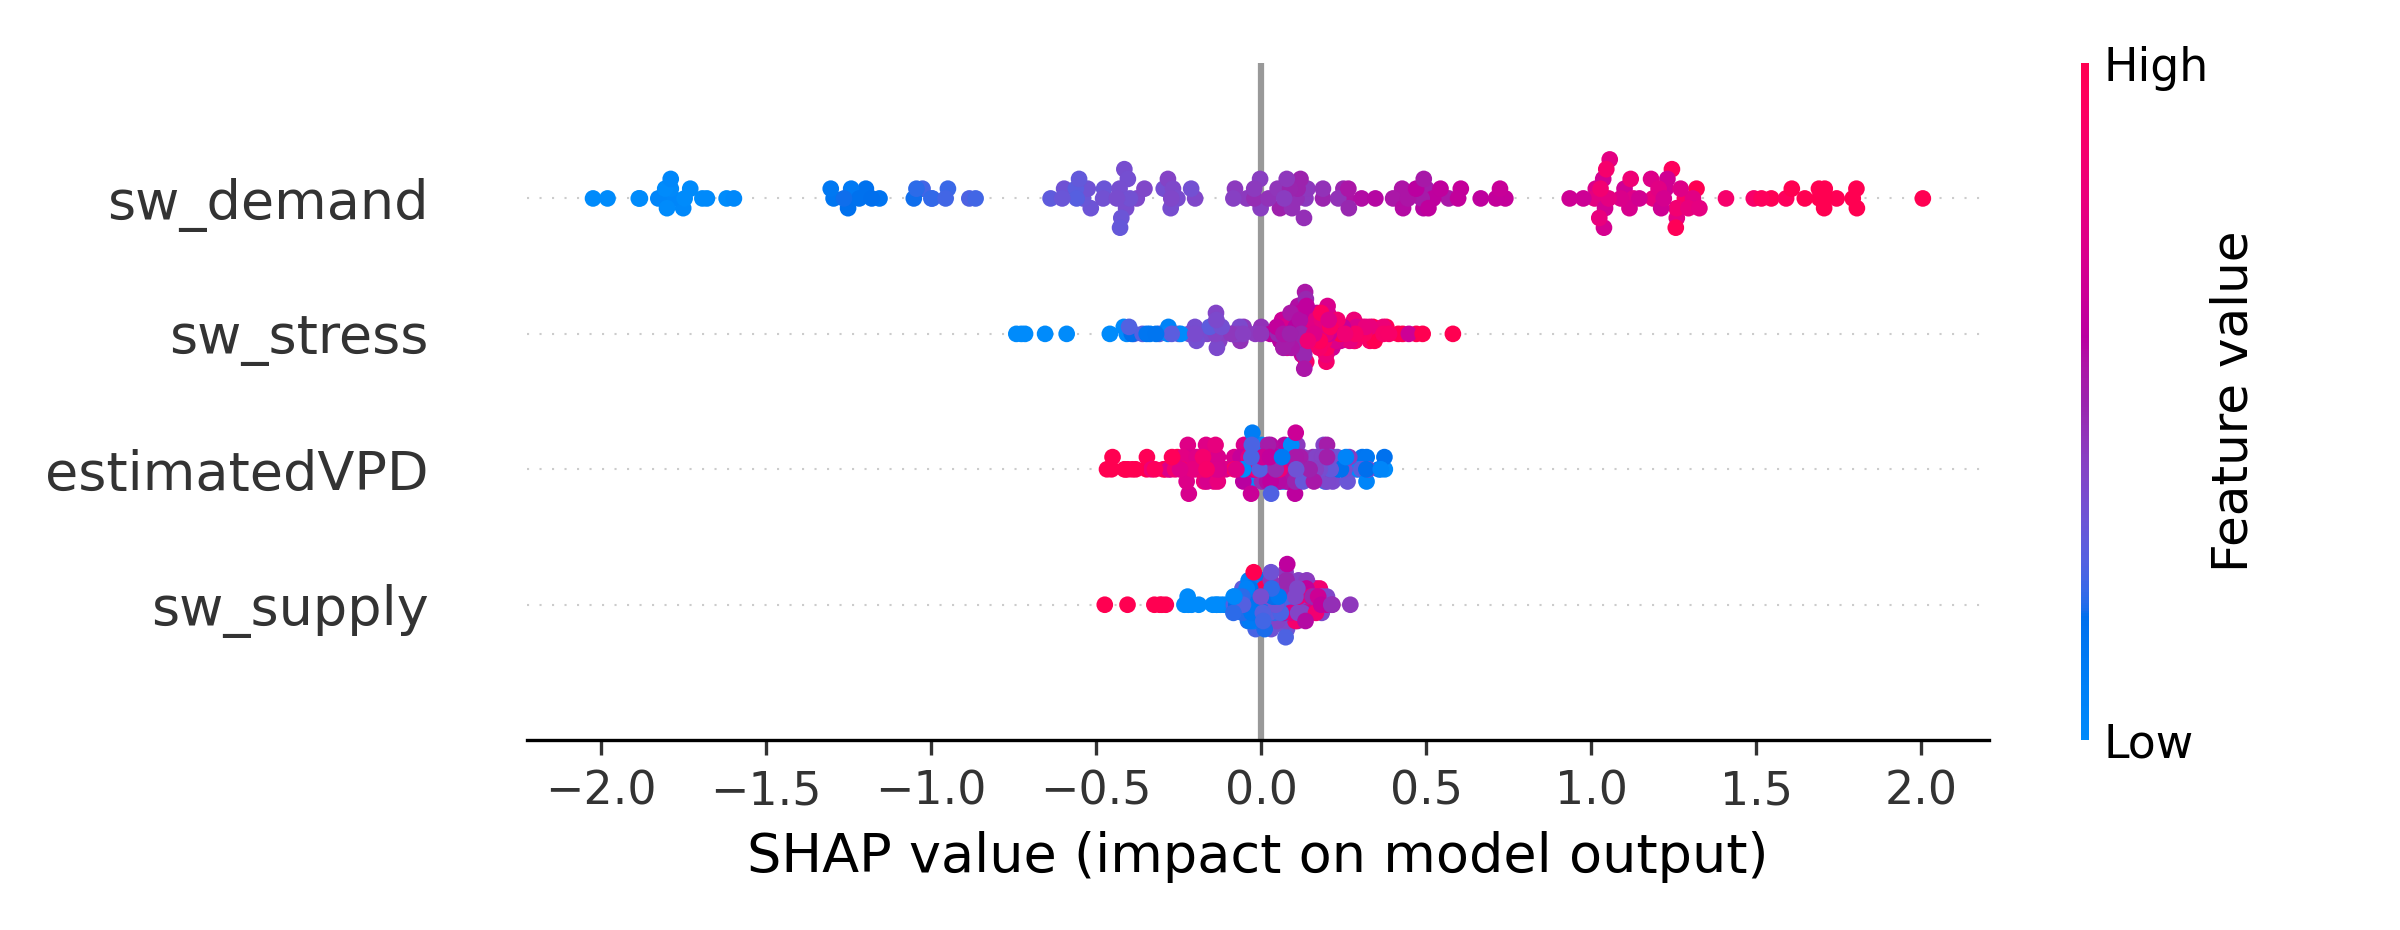
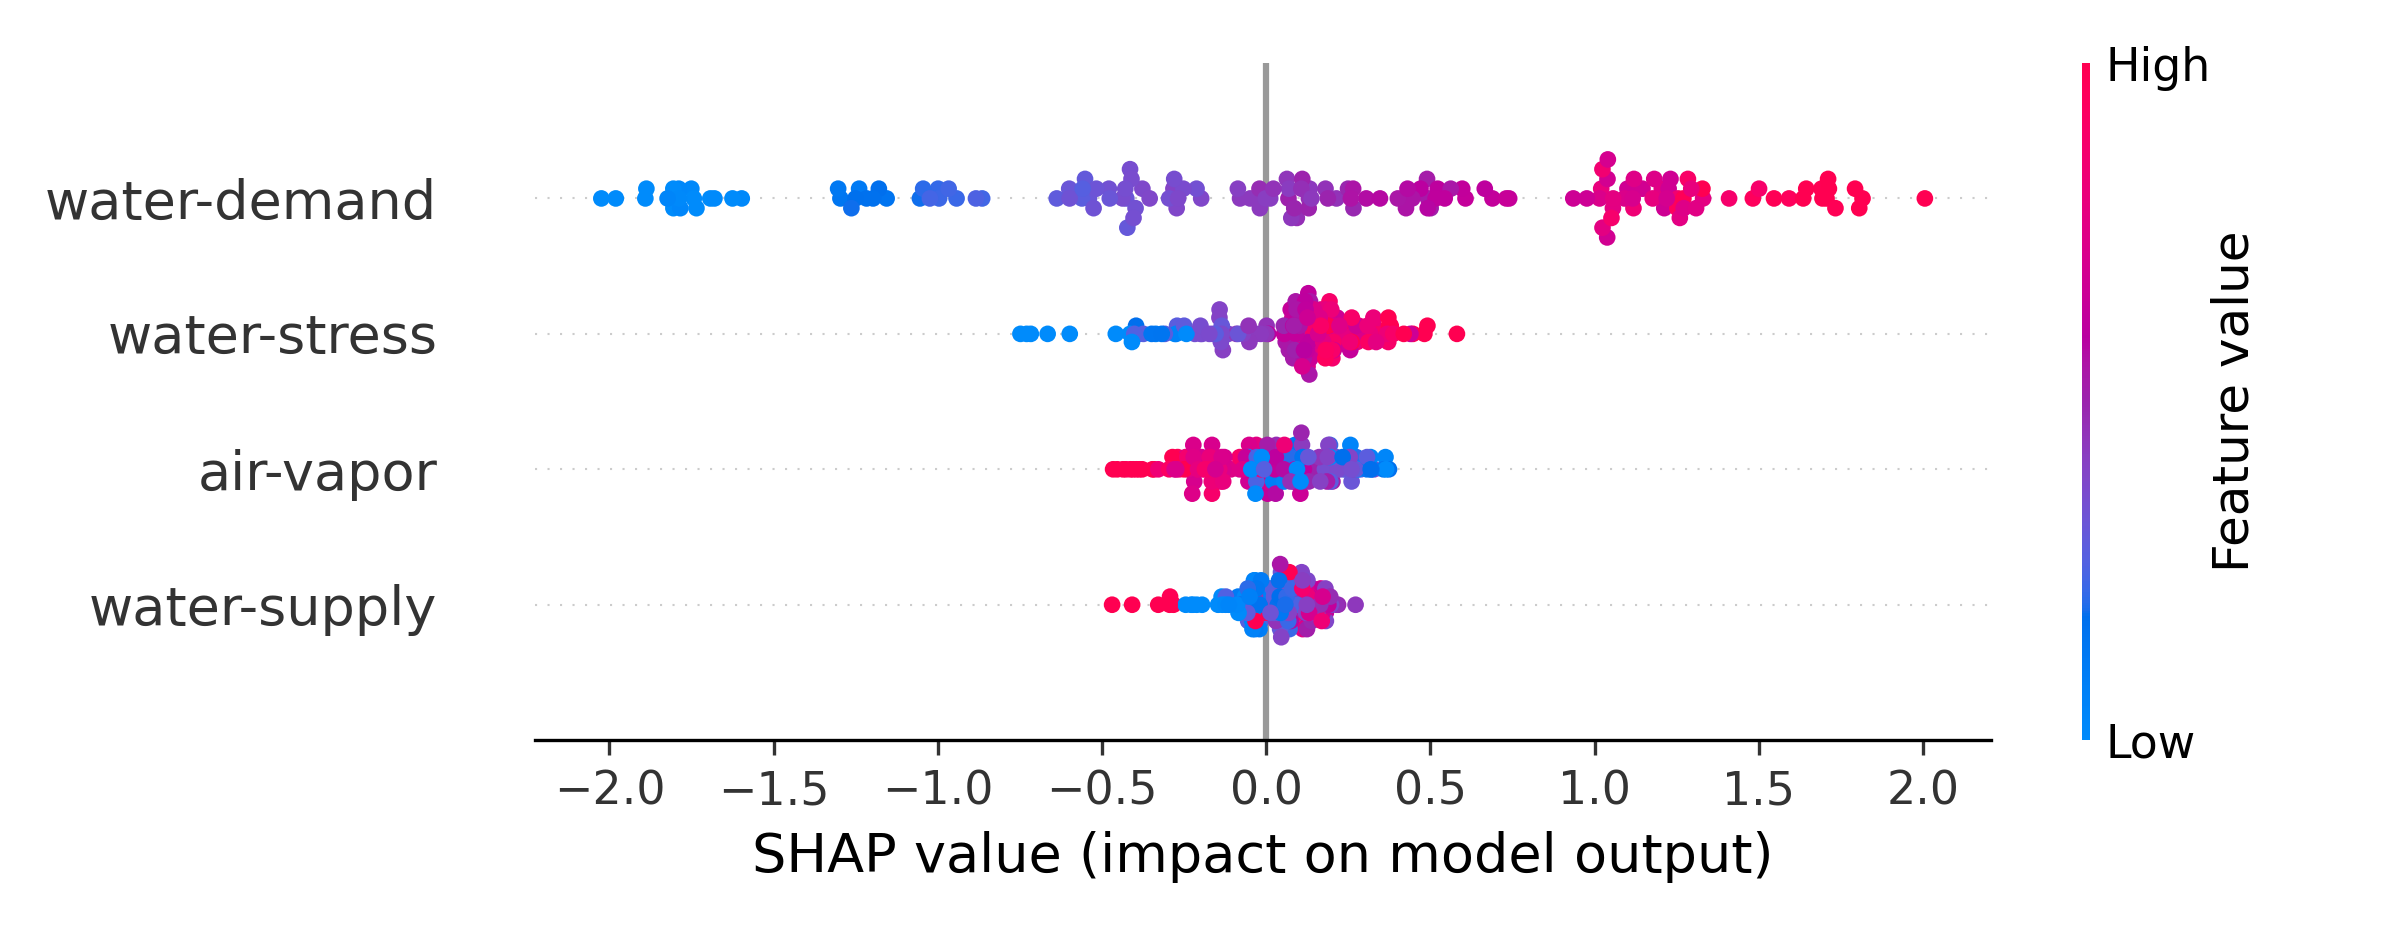
Layout updated to be more compact & naming more clear

diff --git a/dashboard.py b/dashboard.py
@@ -28,14 +28,14 @@ year_data = trials_data.groupby("Year").agg({
 })
 
 # Trained models
-model_rf_yield = joblib.load("./Simulation/RF_model_yield.joblib")
-model_rf_gsize = joblib.load("./Simulation/RF_model_gsize.joblib")
+# model_rf_yield = joblib.load("./Simulation/RF_model_yield.joblib")
+# model_rf_gsize = joblib.load("./Simulation/RF_model_gsize.joblib")
 
-model_gb_yield = joblib.load("./Simulation/GB_model_yield.joblib")
-model_gb_gsize = joblib.load("./Simulation/GB_model_gsize.joblib")
+# model_gb_yield = joblib.load("./Simulation/GB_model_yield.joblib")
+# model_gb_gsize = joblib.load("./Simulation/GB_model_gsize.joblib")
 
-model_rf_multi = joblib.load("./Simulation/RF_model_multivariate.joblib")
-model_rf_stand = joblib.load("./Simulation/RF_model_multistandardize.joblib")
+# model_rf_multi = joblib.load("./Simulation/RF_model_multivariate.joblib")
+# model_rf_stand = joblib.load("./Simulation/RF_model_multistandardize.joblib")
 
 
 # -----------------------------------------------------
@@ -60,11 +60,12 @@ st.markdown("This dashboard explores APSIM outputs using Random Forest and Gradi
 
 
 # 1. PERFORMANCE OVERVIEW
-_, head1_col2, _ = st.columns([1, 4, 1])
+tabular_col1, _, tabular_c2 = st.columns([10, 1, 10])
 
-with head1_col2:
+with tabular_col1:
     st.markdown("## Model Performance Overview", unsafe_allow_html=True)
     st.markdown("Compare R² between models.")
+    st.markdown(" ")
 
     r2_rf = [0.9067, 0.6166, 0.8892]  # RF values for 2 tasks
     r2_gb = [0.9119, 0.5875, 0.8862]  # GB values for 2 tasks
@@ -87,19 +88,23 @@ with head1_col2:
 # ================================================================================================================= #
 
 # 2. YEARLY TRENDS
-_, head2_col2, _ = st.columns([1, 4, 1])
 
-with head2_col2:
-    st.markdown("## Yearly Trends", unsafe_allow_html=True)
+with tabular_c2:
+
+    yearly_col1, yearly_col2 = st.columns([3, 1])
+    with yearly_col1:
+        st.markdown("## Yearly Trends", unsafe_allow_html=True) 
+    
+    with yearly_col2:
+        year_target = st.selectbox("Select Variable", ["yield", "grain_size", "grain_no"]) 
+
+
     st.markdown("Distribution of observed and predicted variables per year.")
-
     color_map = {
         "yield": "orange",
         "grain_size": "goldenrod",
         "grain_no": "sandybrown"
     }
-
-    year_target = st.selectbox("Select Variable", ["yield", "grain_size", "grain_no",])
 
     year_bar = year_data[[year_target]].reset_index()
 
@@ -112,11 +117,13 @@ with head2_col2:
             y=f"{year_target}:Q",
             tooltip=["Year", year_target]
         )
-        .properties(width=600, height=400, title=f"{year_target} by Year")
+        # .properties(width=600, height=400, title=f"{year_target} by Year")
+        .properties(width=600, height=300)
     )
 
     # Show in Streamlit
-    st.altair_chart(chart, use_container_width=True)
+    # st.altair_chart(chart, use_container_width=True)
+    st.altair_chart(chart)
 
 # ================================================================================================================= #
 #                                                                                                                   #
@@ -125,50 +132,51 @@ with head2_col2:
 # 3. Feature Importance & SHAP summary plot
 
 st.markdown("## Feature Importance and Feature Contributions (SHAP)", unsafe_allow_html=True)
-target = st.selectbox("Select Target Variable", ["RF-Yield", "RF-Size", "RF-Number", 
-                                                    "GB-Yield", "GB-Size", "GB-Number",])
-col1, col2 = st.columns(2)
+target = st.selectbox("Select Model and Target variable (Model-Target)",
+                       ["RandomForest-Yield", "RandomForest-GrainSize", "RandomForest-GrainNumber", 
+                        "GradientBoosting-Yield", "GradientBoosting-GrainSize", "GradientBoosting-GrainNumber",])
+feature_col1, _, feature_col2 = st.columns([10, 1, 10])
 
 # Feature Importance
-with col1:
+with feature_col1:
 
     rf_yield = pd.DataFrame({
-        "Feature": ["estimatedVPD", "sw_stress", "sw_supply", "sw_demand"],
+        "Feature": ["air-vapor", "water-stress", "water-supply", "water-demand"],
         "Importance": [0.052787, 0.075079, 0.048475, 0.823659]
     })
 
     rf_size = pd.DataFrame({
-        "Feature": ["estimatedVPD", "sw_stress", "sw_supply", "sw_demand"],
+        "Feature": ["air-vapor", "water-stress", "water-supply", "water-demand"],
         "Importance": [0.355363, 0.113221, 0.149190, 0.382227]
     })
 
     rf_number = pd.DataFrame({
-        "Feature": ["estimatedVPD", "sw_stress", "sw_supply", "sw_demand"],
+        "Feature": ["air-vapor", "water-stress", "water-supply", "water-demand"],
         "Importance": [0.045335, 0.090575, 0.061543, 0.802547]
     })
 
     gb_yield = pd.DataFrame({
-        "Feature": ["estimatedVPD", "sw_stress", "sw_supply", "sw_demand"],
+        "Feature": ["air-vapor", "water-stress", "water-supply", "water-demand"],
         "Importance": [0.058137, 0.085303, 0.041140, 0.815420]
     })
 
     gb_size = pd.DataFrame({
-        "Feature": ["estimatedVPD", "sw_stress", "sw_supply", "sw_demand"],
+        "Feature": ["air-vapor", "water-stress", "water-supply", "water-demand"],
         "Importance": [0.360081, 0.115519, 0.137709, 0.386692]
     })
 
     gb_number = pd.DataFrame({
-        "Feature": ["estimatedVPD", "sw_stress", "sw_supply", "sw_demand"],
+        "Feature": ["air-vapor", "water-stress", "water-supply", "water-demand"],
         "Importance": [0.042944, 0.099121, 0.053783, 0.804152]
     })
 
     model_data = {
-        "RF-Yield": rf_yield,
-        "RF-Size": rf_size,
-        "RF-Number": rf_number,
-        "GB-Yield": gb_yield,
-        "GB-Size": gb_size,
-        "GB-Number": gb_number,
+        "RandomForest-Yield": rf_yield,
+        "RandomForest-GrainSize": rf_size,
+        "RandomForest-GrainNumber": rf_number,
+        "GradientBoosting-Yield": gb_yield,
+        "GradientBoosting-GrainSize": gb_size,
+        "GradientBoosting-GrainNumber": gb_number,
     }
 
     alt_bar = model_data[target]
@@ -184,12 +192,13 @@ with col1:
         )
         .properties(
             title=f"Feature Importance for {target}",
-            width=800,   # wider
-            height=500   # taller
+            width=500,   # wider
+            height=300   # taller
         )
     )
 
-    st.altair_chart(chart, use_container_width=True)
+    # st.altair_chart(chart, use_container_width=True)
+    st.altair_chart(chart)
 
 # ================================================================================================================= #
 #                                                                                                                   #
@@ -197,22 +206,23 @@ with col1:
 
 # FEATURE CONTRIBUTIONS (SHAP)
 
-with col2:
+with feature_col2:
     # st.markdown("Shows which features drive predictions the most.")
     st.markdown(f"Shap Summary Plot for **{target}**.")
 
     shap_images = {
-        "RF-Yield": "shap_rf_yield.png",
-        "RF-Size": "shap_rf_gsize.png",
-        "RF-Number": "shap_rf_number.png",
-        "GB-Yield": "shap_gb_yield.png",
-        "GB-Size": "shap_gb_gsize.png",
-        "GB-Number": "shap_gb_number.png",
+        "RandomForest-Yield": "shap_rf_yield.png",
+        "RandomForest-GrainSize": "shap_rf_gsize.png",
+        "RandomForest-GrainNumber": "shap_rf_number.png",
+        "GradientBoosting-Yield": "shap_gb_yield.png",
+        "GradientBoosting-GrainSize": "shap_gb_gsize.png",
+        "GradientBoosting-GrainNumber": "shap_gb_number.png",
     }
 
     shap_image = "./Simulation/" + shap_images[target]
 
-    st.image(shap_image, use_container_width=True)
+    # st.image(shap_image, use_container_width=True)
+    st.image(shap_image)
 
 
 # ================================================================================================================= #
@@ -222,76 +232,39 @@ with col2:
 
 st.title("Computer Vision")
 st.markdown("Dataset of **819** numbers of image was used for training, **110** was used for validation, and **109** was used for testing")
-model_target = st.selectbox("**Select Model**", ["FCN", "Deeplab", "SegFormer",])
 
 # 1. Model Comparison
 
 st.markdown("## Table of Model Comparison", unsafe_allow_html=True)
 
-fcn_matrix = pd.DataFrame({
-    "Model": "fcn_resnet50",
-    "Loss Function": "CrossEntropy Loss",
-    "Optimizer": "AdamW optimizer",
-    "Learning Rate": 1e-4,
-    "mean IoU": 0.4348,
-    "mean PA": 0.5728,
-}, index=[0])
+models_matrix = pd.DataFrame({
+    "Model": ["fcn_resnet50", "deeplabv3_resnet50", "segformer-b0"],
+    "Loss Function": ["CrossEntropy Loss", "CrossEntropy Loss", "CrossEntropy Loss"],
+    "Optimizer": ["AdamW optimizer", "AdamW optimizer", "AdamW optimizer"],
+    "Learning Rate": ["0.0001", "0.0001", "0.0001"],
+    "mean IoU": ["0.4348", "0.4162", "0.5579"],
+    "mean PA": ["0.5728", "0.5575", "0.6963"],
+}).set_index("Model")
 
-fcn_classes = pd.DataFrame({
-    "IoU": [0.7820, 0.3289, 0.0027, 0.5996],
-    "accuracy": [0.8563, 0.4456, 0.0033, 0.8571],
-    }, 
-    index=["Background","head","stem","leaf"]
-)
-
-deeplab_matrix = pd.DataFrame({
-    "Model": "deeplabv3_resnet50",
-    "Loss Function": "CrossEntropy Loss",
-    "Optimizer": "AdamW optimizer",
-    "Learning Rate": 1e-4,
-    "mean IoU": 0.4162,
-    "mean PA": 0.5575,
-}, index=[0])
-
-deeplab_classes = pd.DataFrame({
-    "IoU": [0.7811, 0.2627, 0.0074, 0.6137],
-    "accuracy": [0.8180, 0.3414, 0.0131, 0.9390],
-    }, 
-    index=["Background","head","stem","leaf"]
-)
-
-segformer_matrix = pd.DataFrame({
-    "Model": "segformer-b0",
-    "Loss Function": "CrossEntropy Loss",
-    "Optimizer": "AdamW optimizer",
-    "Learning Rate": 5e-5,
-    "mean IoU": 0.5579,
-    "mean PA": 0.6963,
-}, index=[0])
-
-segformer_classes = pd.DataFrame({
-    "IoU": [0.8100, 0.6673, 0.0181, 0.6035],
-    "accuracy": [0.8509, 0.8226, 0.0188, 0.8943],
-    }, 
-    index=["Background","head","stem","leaf"]
-)
-
-models_table = {
-    "FCN": [fcn_matrix, fcn_classes],
-    "Deeplab": [deeplab_matrix, deeplab_classes],
-    "SegFormer": [segformer_matrix, segformer_classes]
-}
+models_classes = pd.DataFrame({
+    "FCN_IoU": ["0.7820", "0.3289", "0.0027", "0.5996"],
+    "FCN_Accuracy": ["0.8563", "0.4456", "0.0033", "0.8571"],
+    "Deeplab_IoU": ["0.7811", "0.2627", "0.0074", "0.6137"],
+    "Deeplab_Accuracy": ["0.8180", "0.3414", "0.0131", "0.9390"],
+    "SegFormer_IoU": ["0.8100", "0.6673", "0.0181", "0.6035"],
+    "SegFormer_Accuracy": ["0.8509", "0.8226", "0.0188", "0.8943"],
+}, index=["Background","Head","Stem","Leaf"])
 
 st.text(' ')
 st.text(' ')
 
 st.markdown("**The model parameters and result.**")
-st.table(models_table[model_target][0])
+st.table(models_matrix)
 
 st.text(' ')
 
 st.markdown("**The model IoU and Accuracy for each class.**")
-st.table(models_table[model_target][1])
+st.table(models_classes)
 
 
 # ================================================================================================================= #
@@ -300,26 +273,27 @@ st.table(models_table[model_target][1])
 
 # 2. Inference
 
-images_dir = f"./inference_outputs/{model_target.lower()}"
-
-# initialize with one random image on first load
-if "random_image" not in st.session_state:
-    files = os.listdir(images_dir)
-    st.session_state["random_image"] = os.path.join(images_dir, random.choice(files))
-    st.session_state["last_model"] = model_target
-
-if st.session_state["last_model"] != model_target:
-    files = os.listdir(images_dir)
-    st.session_state["random_image"] = os.path.join(images_dir, random.choice(files))
-    st.session_state["last_model"] = model_target
-
 st.text(' ')
 st.markdown("## Visualization Inference", unsafe_allow_html=True)
 
-inf_col1, inf_col2 = st.columns([3, 1])
+
+inf_col1, _, inf_col2 = st.columns([3, 1, 1])
 
 with inf_col1:
-    st.markdown("Visualization of the model")
+    # st.markdown("Visualization of the model")
+    model_target = st.selectbox("**Select Visualization Model**", ["FCN", "Deeplab", "SegFormer",])
+    images_dir = f"./inference_outputs/{model_target.lower()}"
+
+    # initialize with one random image on first load
+    if "random_image" not in st.session_state:
+        files = os.listdir(images_dir)
+        st.session_state["random_image"] = os.path.join(images_dir, random.choice(files))
+        st.session_state["last_model"] = model_target
+
+    if st.session_state["last_model"] != model_target:
+        files = os.listdir(images_dir)
+        st.session_state["random_image"] = os.path.join(images_dir, random.choice(files))
+        st.session_state["last_model"] = model_target
 
 with inf_col2:
     # st.markdown("<div style='text-align: right'>", unsafe_allow_html=True)
@@ -340,6 +314,7 @@ st.image(st.session_state['random_image'], caption=f"Inference result ({model_ta
 # 3. Training and Validation Loss
 
 st.markdown("## Training and Metrics Curves", unsafe_allow_html=True)
+st.markdown(f"**{model_target} Curves**")
 
 img_col1, img_col2 = st.columns(2)
 
